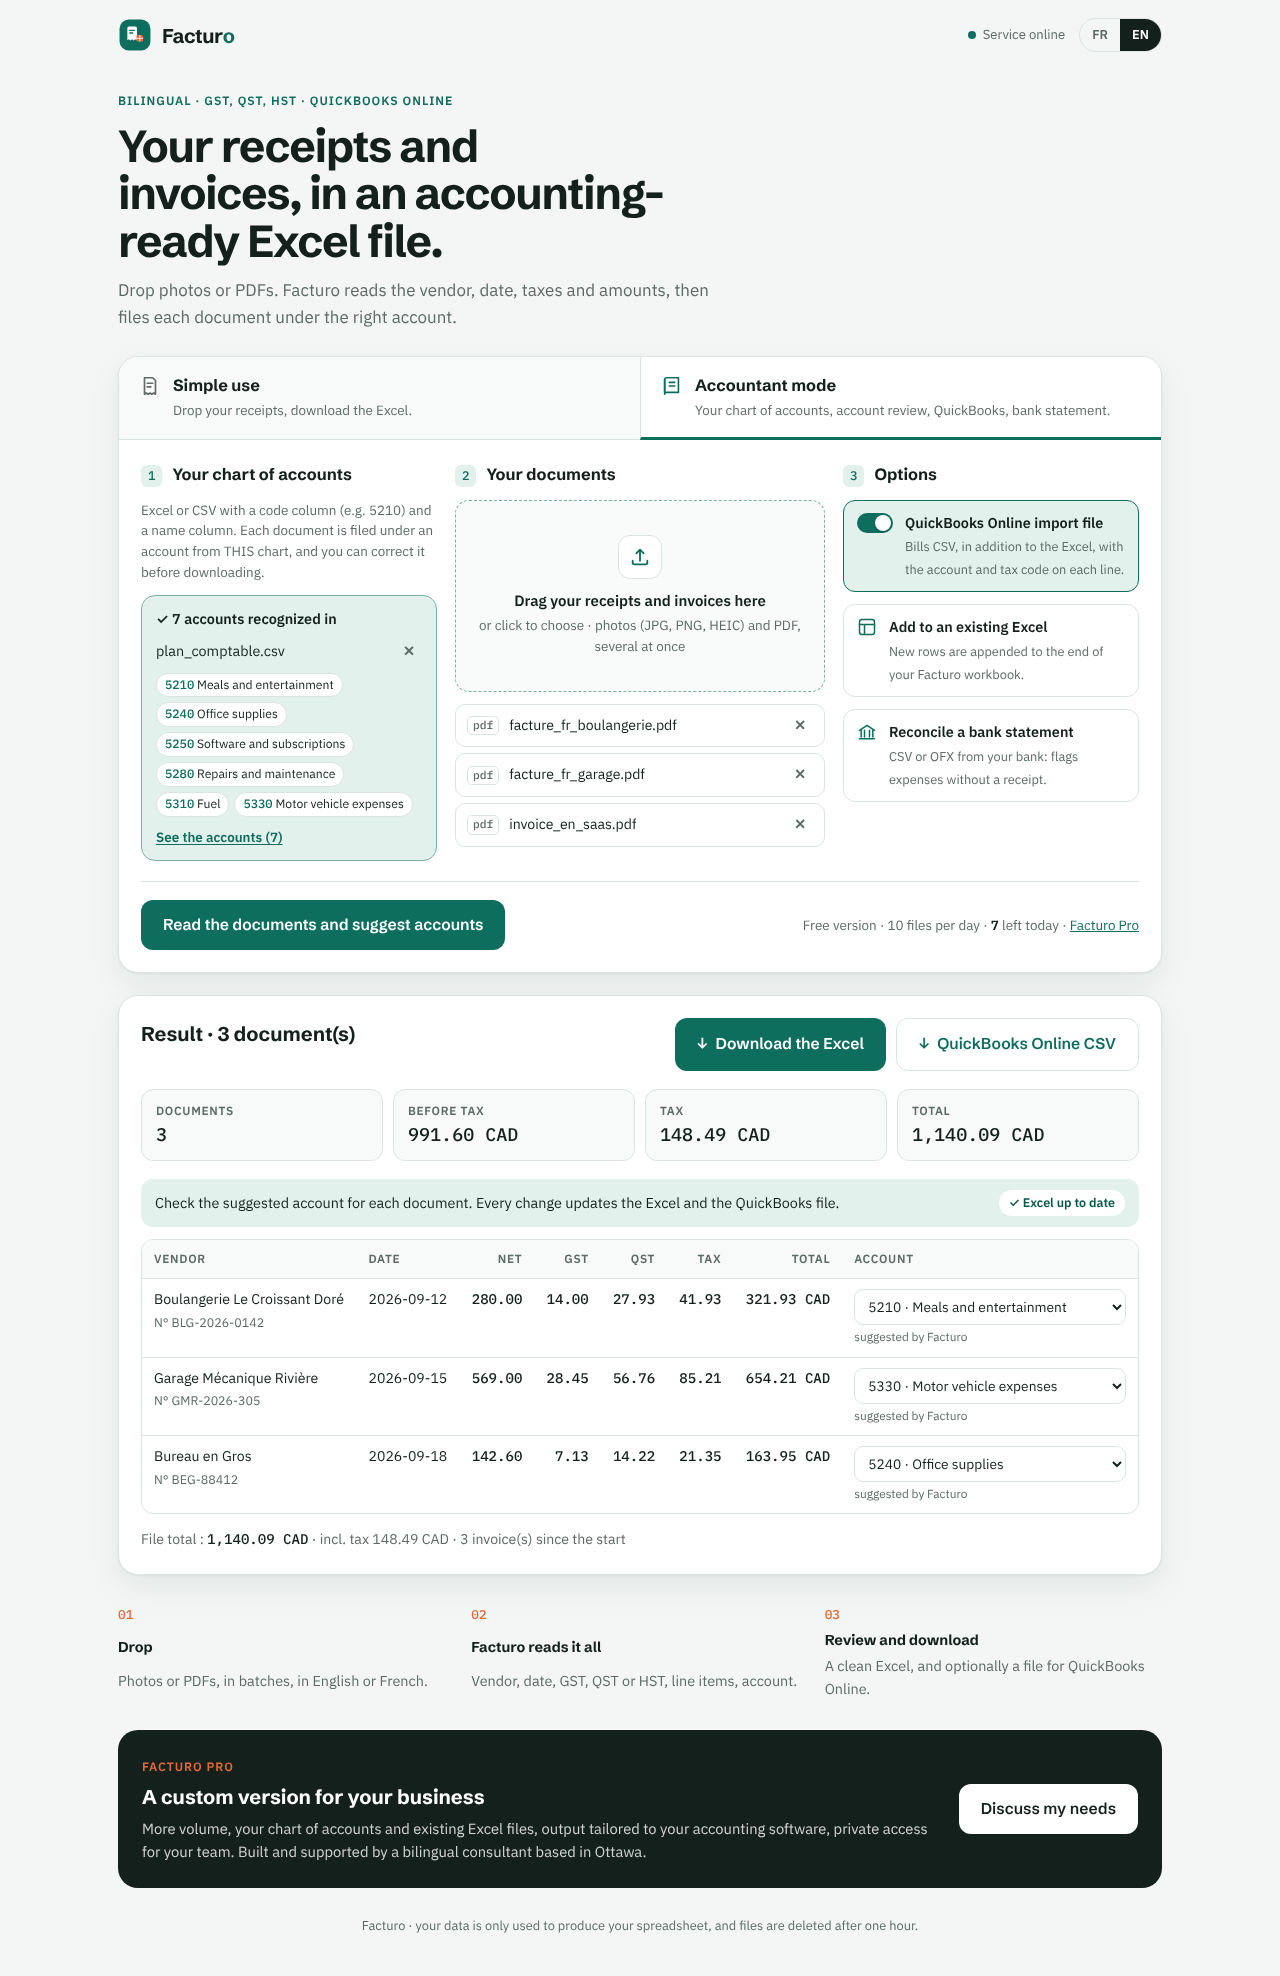
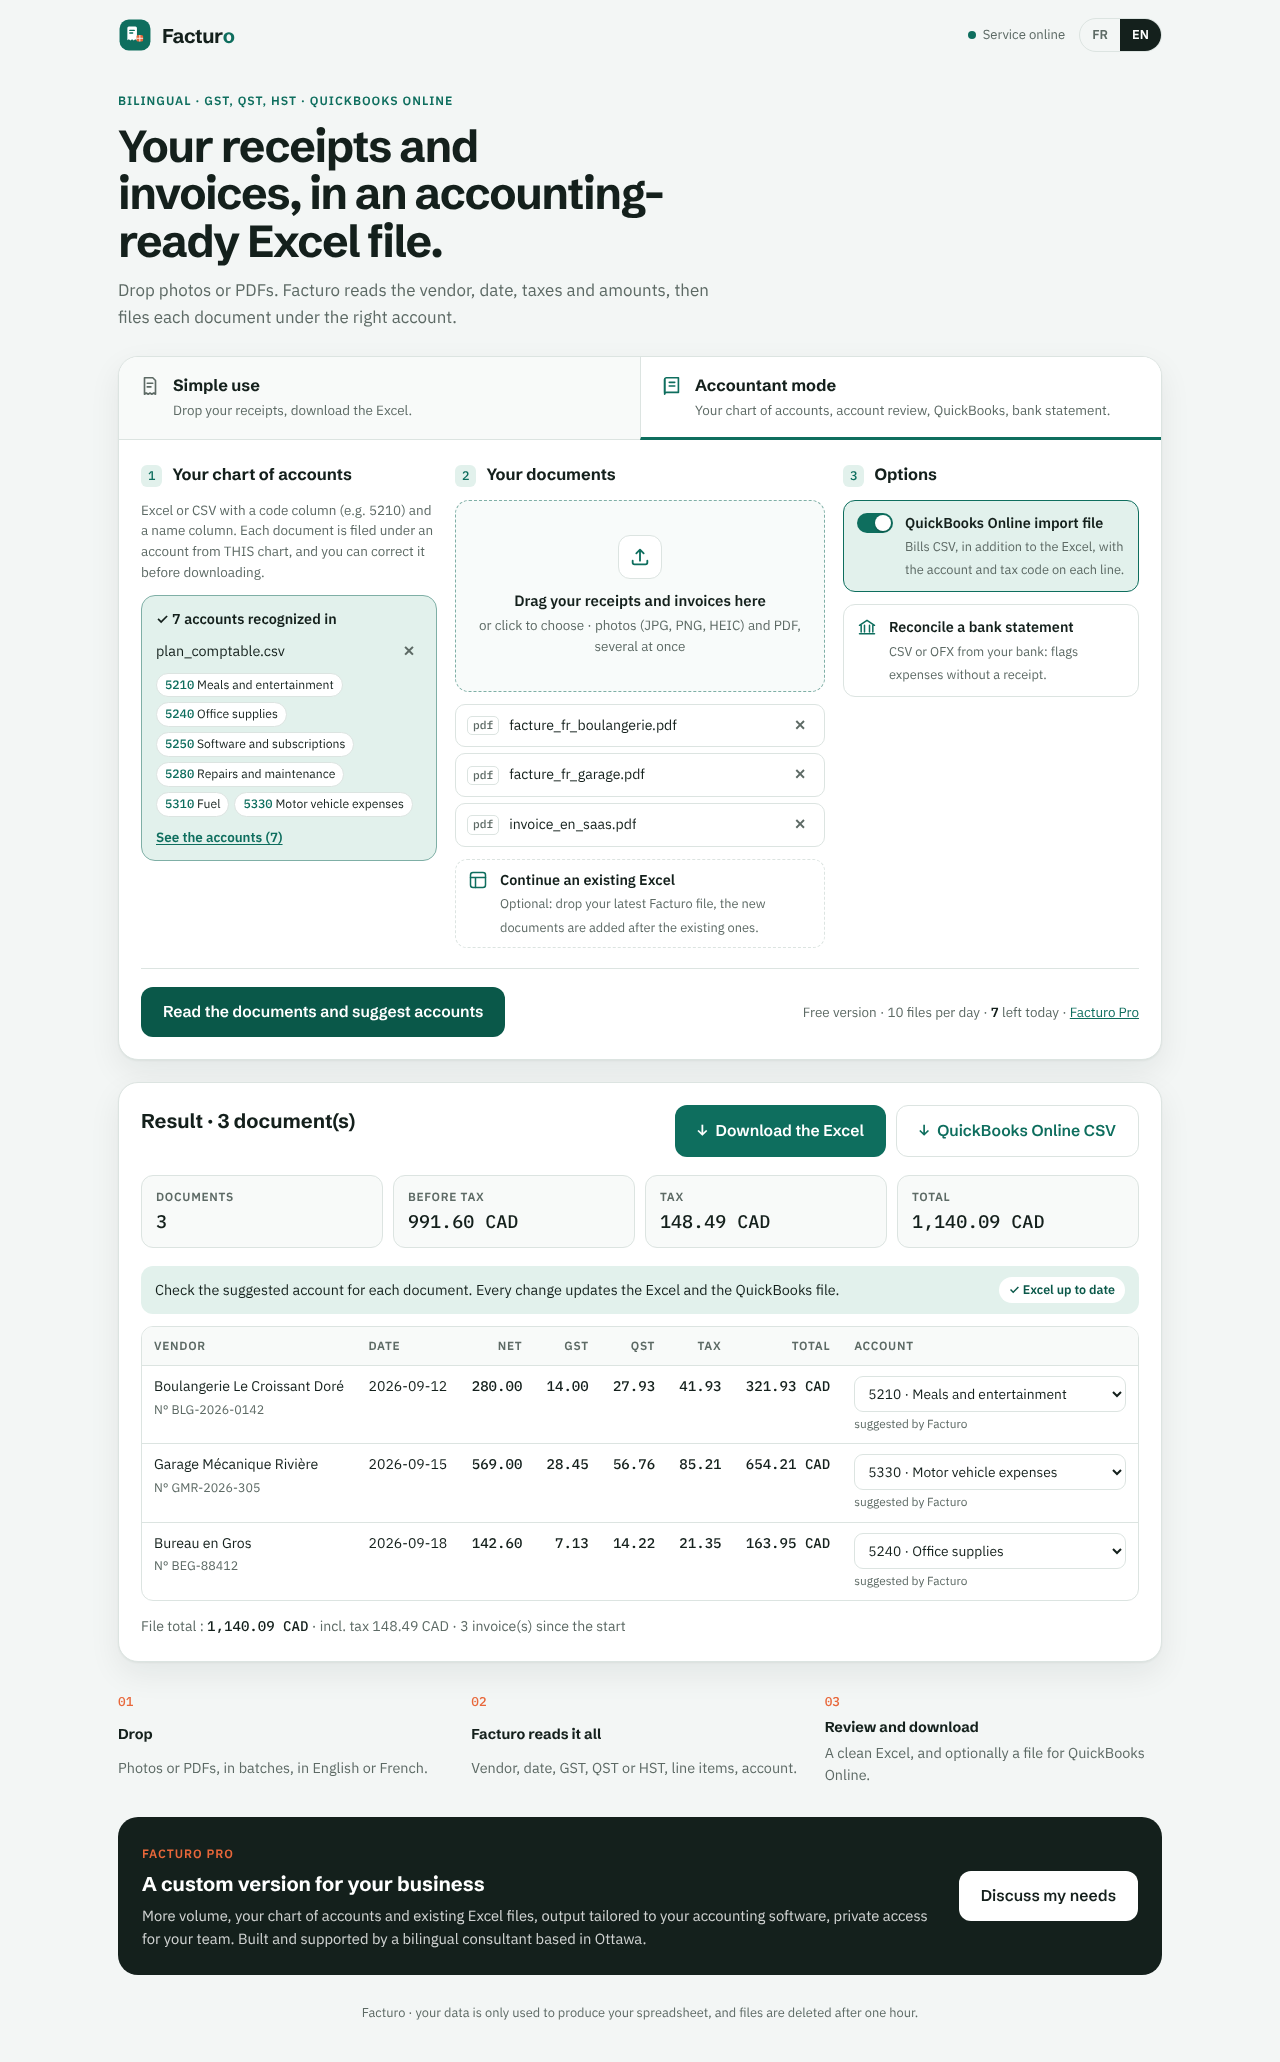
Document continuing an existing Excel in everyday use
Claude-Session: https://claude.ai/code/session_01ChU8c9ffCH277CeiJqZYEC

diff --git a/CLAUDE.md b/CLAUDE.md
@@ -8,11 +8,12 @@ Facturo turns photos and PDFs of invoices and receipts into an accounting-ready
 Excel workbook, for bilingual (English/French) small businesses in Canada.
 Two levels of use, which must never get in each other's way:
 
-- **Everyday use** — drop files, download the Excel. Nothing else on screen.
+- **Everyday use** — drop files, download the Excel; optionally drop the
+  previous Facturo Excel to keep adding to it. Nothing else on screen.
 - **Accountants** (*Accountant mode* tab, one click away, link `/#comptable`)
   — chart of accounts with a preview of the accounts recognized, review of the
-  suggested account of each document before download, appending to an
-  existing workbook, bank statement reconciliation, QuickBooks Online export.
+  suggested account of each document before download, bank statement
+  reconciliation, QuickBooks Online export.
   In simple mode none of these options are sent, so they never change the
   Excel produced by the everyday flow.
 

diff --git a/README.fr.md b/README.fr.md
@@ -48,9 +48,9 @@ pytest · Docker · déploiement continu sur Render.
 ### Pour les comptables
 
 Catégories et totaux sont toujours dans l'Excel, sur des onglets après le
-résumé : un usager courant peut les ignorer. L'import d'un plan comptable,
-l'ajout à un fichier existant, le relevé bancaire et l'export QuickBooks se
-trouvent dans l'onglet *Mode comptable* de l'app web, à un clic (lien direct :
+résumé : un usager courant peut les ignorer. Continuer un Excel Facturo existant fait partie de l'usage
+courant. L'import d'un plan comptable, le relevé bancaire et l'export
+QuickBooks se trouvent dans l'onglet *Mode comptable* de l'app web, à un clic (lien direct :
 `/#comptable`).
 
 - **Ajout à un Excel existant** — les nouvelles lignes s'ajoutent à la fin,

diff --git a/README.md b/README.md
@@ -46,8 +46,8 @@ continuous deployment on Render.
 ### For accountants
 
 Categories and totals are always in the Excel, on sheets after the summary, so
-everyday users can ignore them. Importing a chart of accounts, appending to an
-existing file, the bank statement and the QuickBooks export sit in the
+everyday users can ignore them. Continuing an existing Facturo Excel is part of everyday use. Importing a
+chart of accounts, the bank statement and the QuickBooks export sit in the
 *Accountant mode* tab of the web app, one click away (direct link: `/#comptable`).
 
 - **Append to an existing Excel file** — new rows are added at the end, nothing
